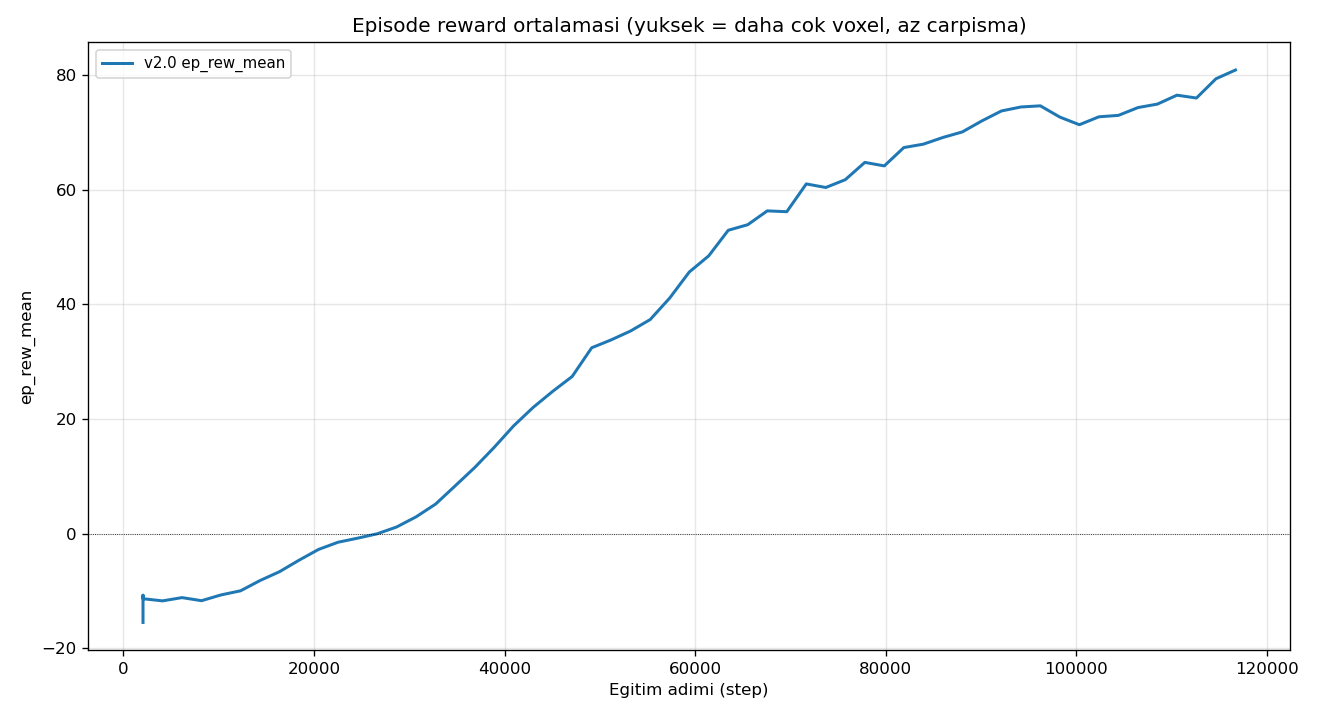
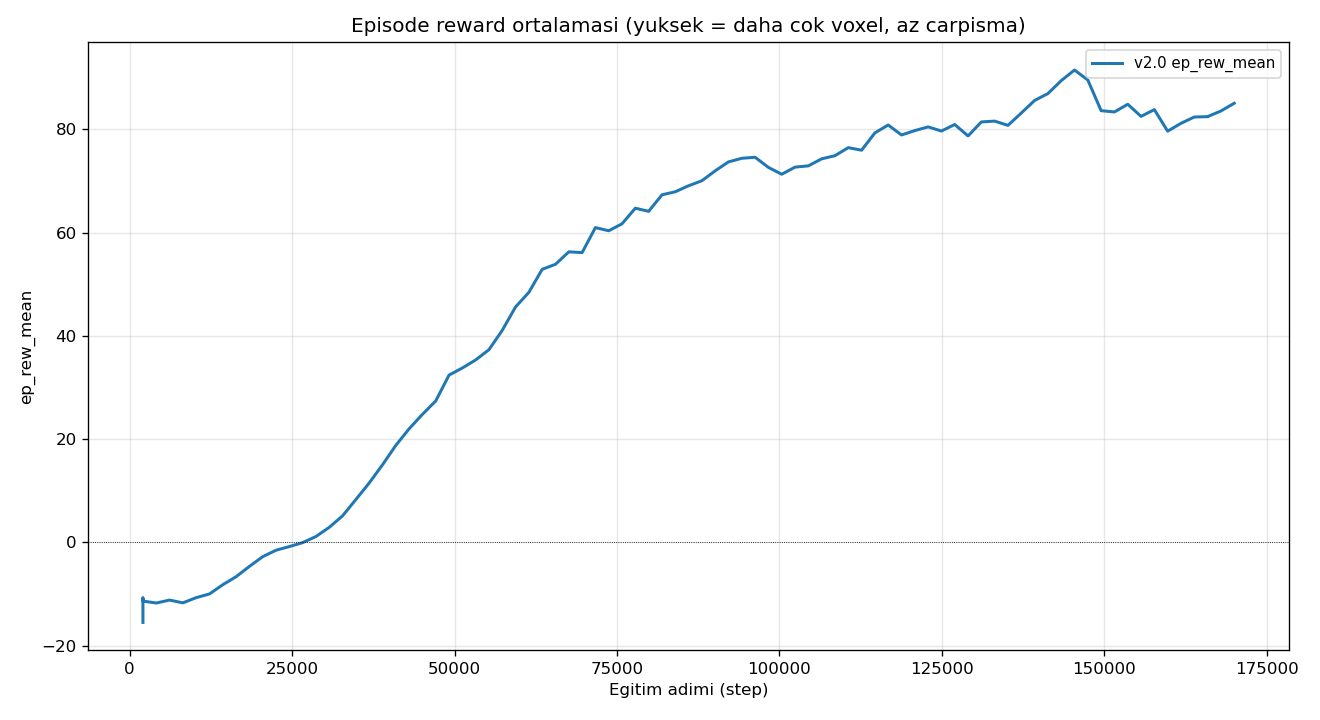
auto(operator): refresh report @167936 steps (healthy, reward 83.6, peak 91.5)

diff --git a/docs/REPORT.md b/docs/REPORT.md
@@ -6,7 +6,7 @@ Otomatik uretildi (`scripts/report.py`). Operator agent gunceller.
 
 | Versiyon | Son step | Son reward | Peak reward | Peak voxel (max) | Peak oda (max) |
 |---|---|---|---|---|---|
-| v2.0 | 116,736 | +80.8 | +80.8 | 181/1024 | 6/6 |
+| v2.0 | 169,984 | +85.1 | +91.5 | 181/1024 | 6/6 |
 
 ## Versiyon / Mudahale Gunlugu
 
